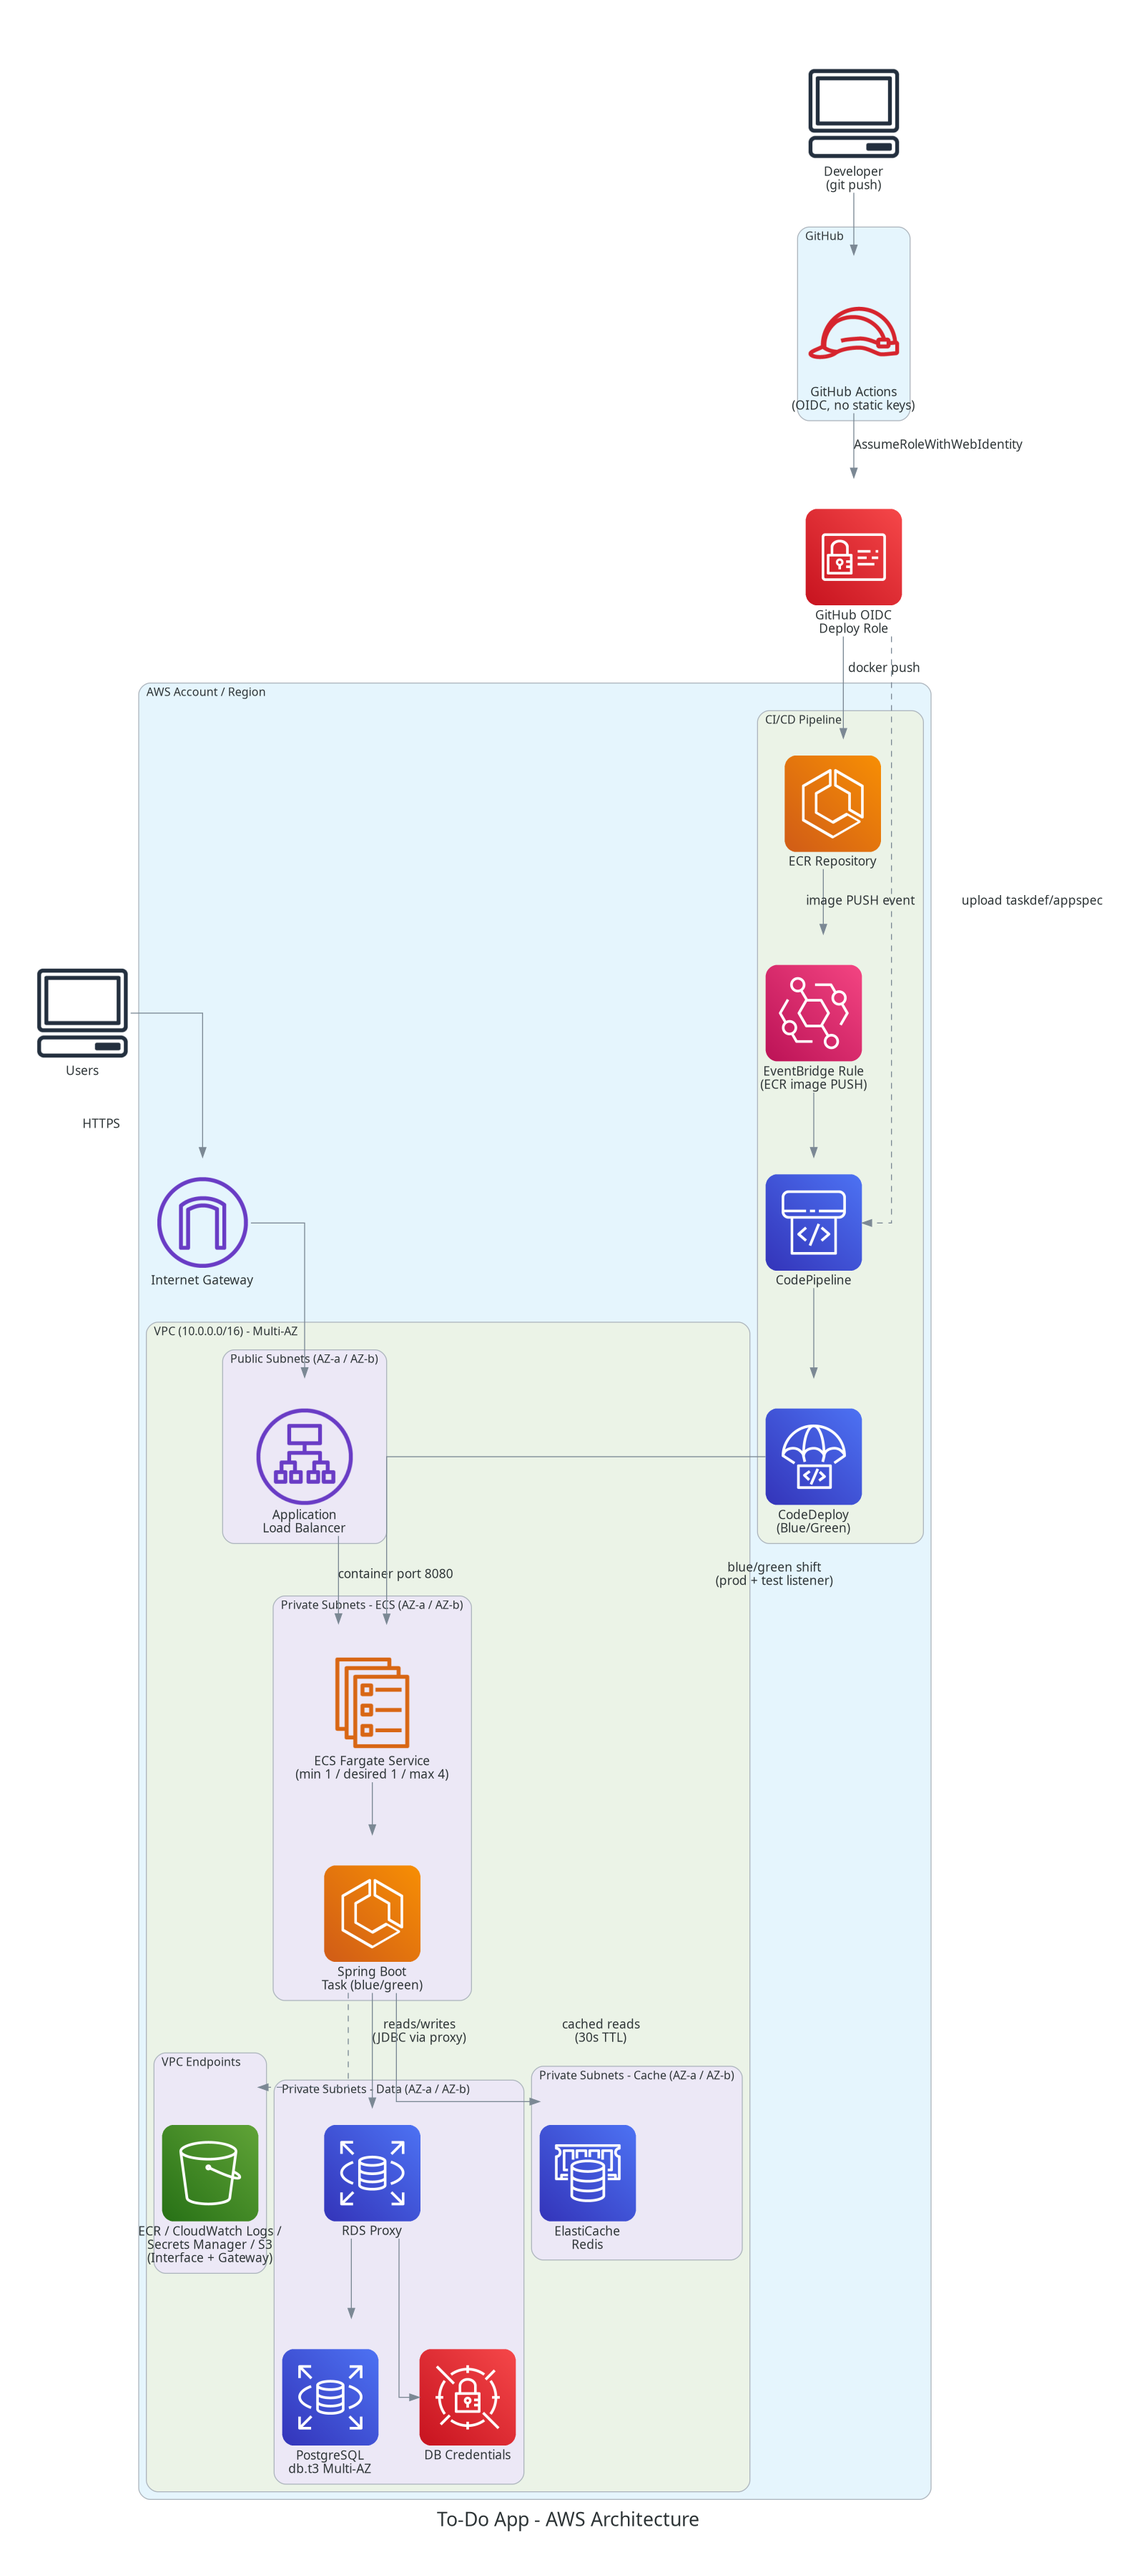
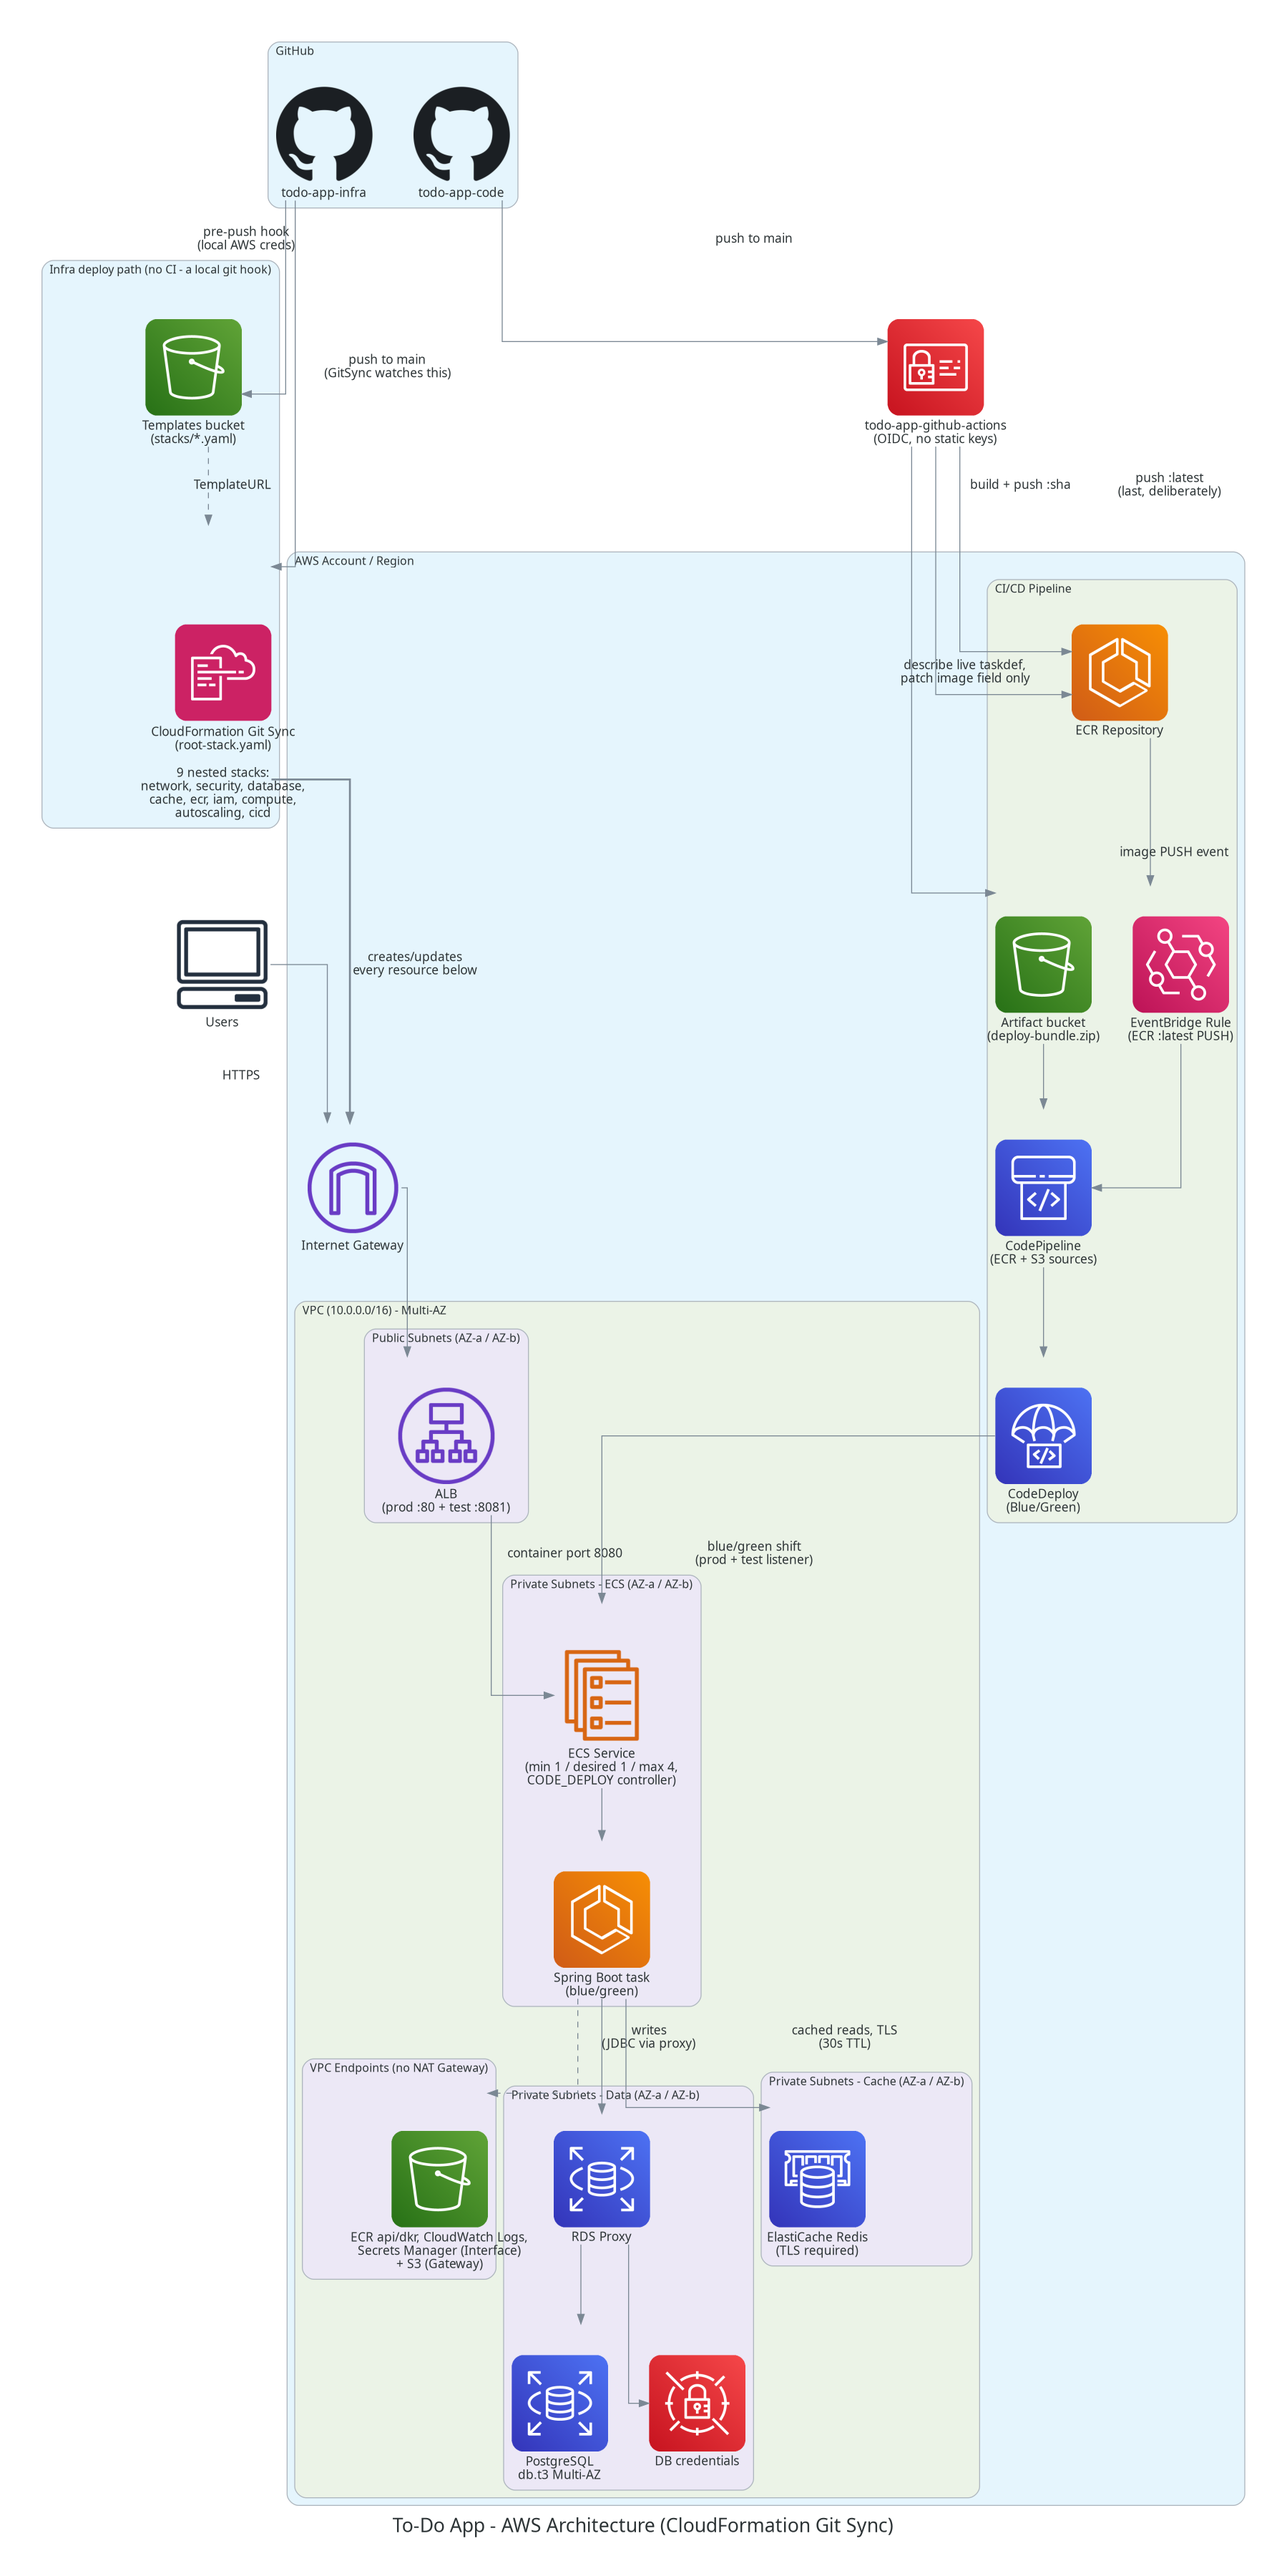
Regenerate architecture diagram to match the nested-stack GitSync design
The old diagram was drawn for the original flat, exported/imported-stack
architecture and never updated after the mid-project restructure. Now
shows both GitHub repos, the pre-push-hook infra deploy path (no CI - a
local git hook syncs stacks/ to S3, CloudFormation Git Sync only ever
tracks root-stack.yaml), the 9 nested stacks, and the live-taskdef CI/CD
pattern (describe + patch image only, SHA tag then :latest last).

Changed region(s): [[0.0308, 0.0, 0.9862, 0.9978], [0.5547, 0.5924, 0.6164, 0.6236], [0.2774, 0.1247, 0.339, 0.1559]]

diff --git a/diagrams/architecture.py b/diagrams/architecture.py
@@ -1,5 +1,6 @@
 """
-Diagram-as-code source for the To-Do App architecture.
+Diagram-as-code source for the To-Do App architecture (nested-stack /
+CloudFormation Git sync design).
 Regenerate with:  python3 -m venv .venv && .venv/bin/pip install diagrams
                    .venv/bin/python3 architecture.py
 Requires graphviz (`dot`) to be installed on PATH.
@@ -10,9 +11,11 @@ from diagrams.aws.database import RDS, ElastiCache
 from diagrams.aws.devtools import Codedeploy, Codepipeline
 from diagrams.aws.general import Client
 from diagrams.aws.integration import Eventbridge
-from diagrams.aws.network import ALB, InternetGateway, PrivateSubnet, PublicSubnet, VPC
-from diagrams.aws.security import IAM, IAMRole, SecretsManager
+from diagrams.aws.management import Cloudformation
+from diagrams.aws.network import ALB, InternetGateway, VPC
+from diagrams.aws.security import IAM, SecretsManager
 from diagrams.aws.storage import S3
+from diagrams.onprem.vcs import Github
 
 graph_attr = {
     "fontsize": "20",
@@ -21,7 +24,7 @@ graph_attr = {
 }
 
 with Diagram(
-    "To-Do App - AWS Architecture",
+    "To-Do App - AWS Architecture (CloudFormation Git Sync)",
     filename="architecture",
     outformat="png",
     show=False,
@@ -29,12 +32,20 @@ with Diagram(
     graph_attr=graph_attr,
 ):
     users = Client("Users")
-    developer = Client("Developer\n(git push)")
 
     with Cluster("GitHub"):
-        gha = IAMRole("GitHub Actions\n(OIDC, no static keys)")
+        infra_repo = Github("todo-app-infra")
+        app_repo = Github("todo-app-code")
 
-    oidc_role = IAM("GitHub OIDC\nDeploy Role")
+    with Cluster("Infra deploy path (no CI - a local git hook)"):
+        templates_bucket = S3("Templates bucket\n(stacks/*.yaml)")
+        gitsync = Cloudformation(
+            "CloudFormation Git Sync\n(root-stack.yaml)\n\n"
+            "9 nested stacks:\nnetwork, security, database,\n"
+            "cache, ecr, iam, compute,\nautoscaling, cicd"
+        )
+
+    github_actions_role = IAM("todo-app-github-actions\n(OIDC, no static keys)")
 
     with Cluster("AWS Account / Region"):
         igw = InternetGateway("Internet Gateway")
@@ -42,40 +53,52 @@ with Diagram(
         with Cluster("VPC (10.0.0.0/16) - Multi-AZ"):
 
             with Cluster("Public Subnets (AZ-a / AZ-b)"):
-                alb = ALB("Application\nLoad Balancer")
+                alb = ALB("ALB\n(prod :80 + test :8081)")
 
             with Cluster("Private Subnets - ECS (AZ-a / AZ-b)"):
-                ecs_service = ElasticContainerServiceService("ECS Fargate Service\n(min 1 / desired 1 / max 4)")
-                ecs_task = ECS("Spring Boot\nTask (blue/green)")
+                ecs_service = ElasticContainerServiceService("ECS Service\n(min 1 / desired 1 / max 4,\nCODE_DEPLOY controller)")
+                ecs_task = ECS("Spring Boot task\n(blue/green)")
 
-            with Cluster("VPC Endpoints"):
-                vpce = S3("ECR / CloudWatch Logs /\nSecrets Manager / S3\n(Interface + Gateway)")
+            with Cluster("VPC Endpoints (no NAT Gateway)"):
+                vpce = S3("ECR api/dkr, CloudWatch Logs,\nSecrets Manager (Interface)\n+ S3 (Gateway)")
 
             with Cluster("Private Subnets - Data (AZ-a / AZ-b)"):
                 proxy = RDS("RDS Proxy")
                 db = RDS("PostgreSQL\ndb.t3 Multi-AZ")
-                secret = SecretsManager("DB Credentials")
+                secret = SecretsManager("DB credentials")
 
             with Cluster("Private Subnets - Cache (AZ-a / AZ-b)"):
-                redis = ElastiCache("ElastiCache\nRedis")
+                redis = ElastiCache("ElastiCache Redis\n(TLS required)")
 
         with Cluster("CI/CD Pipeline"):
             ecr = ECS("ECR Repository")
-            eventbridge = Eventbridge("EventBridge Rule\n(ECR image PUSH)")
-            pipeline = Codepipeline("CodePipeline")
+            artifact_bucket = S3("Artifact bucket\n(deploy-bundle.zip)")
+            eventbridge = Eventbridge("EventBridge Rule\n(ECR :latest PUSH)")
+            pipeline = Codepipeline("CodePipeline\n(ECR + S3 sources)")
             codedeploy = Codedeploy("CodeDeploy\n(Blue/Green)")
 
+    # Runtime traffic
     users >> Edge(label="HTTPS") >> igw >> alb
     alb >> Edge(label="container port 8080") >> ecs_service >> ecs_task
-
-    ecs_task >> Edge(label="reads/writes\n(JDBC via proxy)") >> proxy >> db
+    ecs_task >> Edge(label="writes\n(JDBC via proxy)") >> proxy >> db
     proxy >> secret
-    ecs_task >> Edge(label="cached reads\n(30s TTL)") >> redis
+    ecs_task >> Edge(label="cached reads, TLS\n(30s TTL)") >> redis
     ecs_task >> Edge(style="dashed") >> vpce
 
-    developer >> gha
-    gha >> Edge(label="AssumeRoleWithWebIdentity") >> oidc_role
-    oidc_role >> Edge(label="docker push") >> ecr
-    oidc_role >> Edge(label="upload taskdef/appspec", style="dashed") >> pipeline
-    ecr >> Edge(label="image PUSH event") >> eventbridge >> pipeline >> codedeploy
+    # Infra deploy path: a git hook syncs child templates to S3, GitSync
+    # itself only ever tracks root-stack.yaml and applies it directly - no
+    # OIDC role, no GitHub Actions workflow involved on this side at all.
+    infra_repo >> Edge(label="pre-push hook\n(local AWS creds)") >> templates_bucket
+    infra_repo >> Edge(label="push to main\n(GitSync watches this)") >> gitsync
+    gitsync >> Edge(label="creates/updates\nevery resource below", style="bold") >> igw
+    templates_bucket >> Edge(style="dashed", label="TemplateURL") >> gitsync
+
+    # App CI/CD path: live-taskdef pattern, no repo variables needed
+    app_repo >> Edge(label="push to main") >> github_actions_role
+    github_actions_role >> Edge(label="build + push :sha") >> ecr
+    github_actions_role >> Edge(label="describe live taskdef,\npatch image field only") >> artifact_bucket
+    github_actions_role >> Edge(label="push :latest\n(last, deliberately)") >> ecr
+    ecr >> Edge(label="image PUSH event") >> eventbridge >> pipeline
+    artifact_bucket >> pipeline
+    pipeline >> codedeploy
     codedeploy >> Edge(label="blue/green shift\n(prod + test listener)") >> ecs_service
